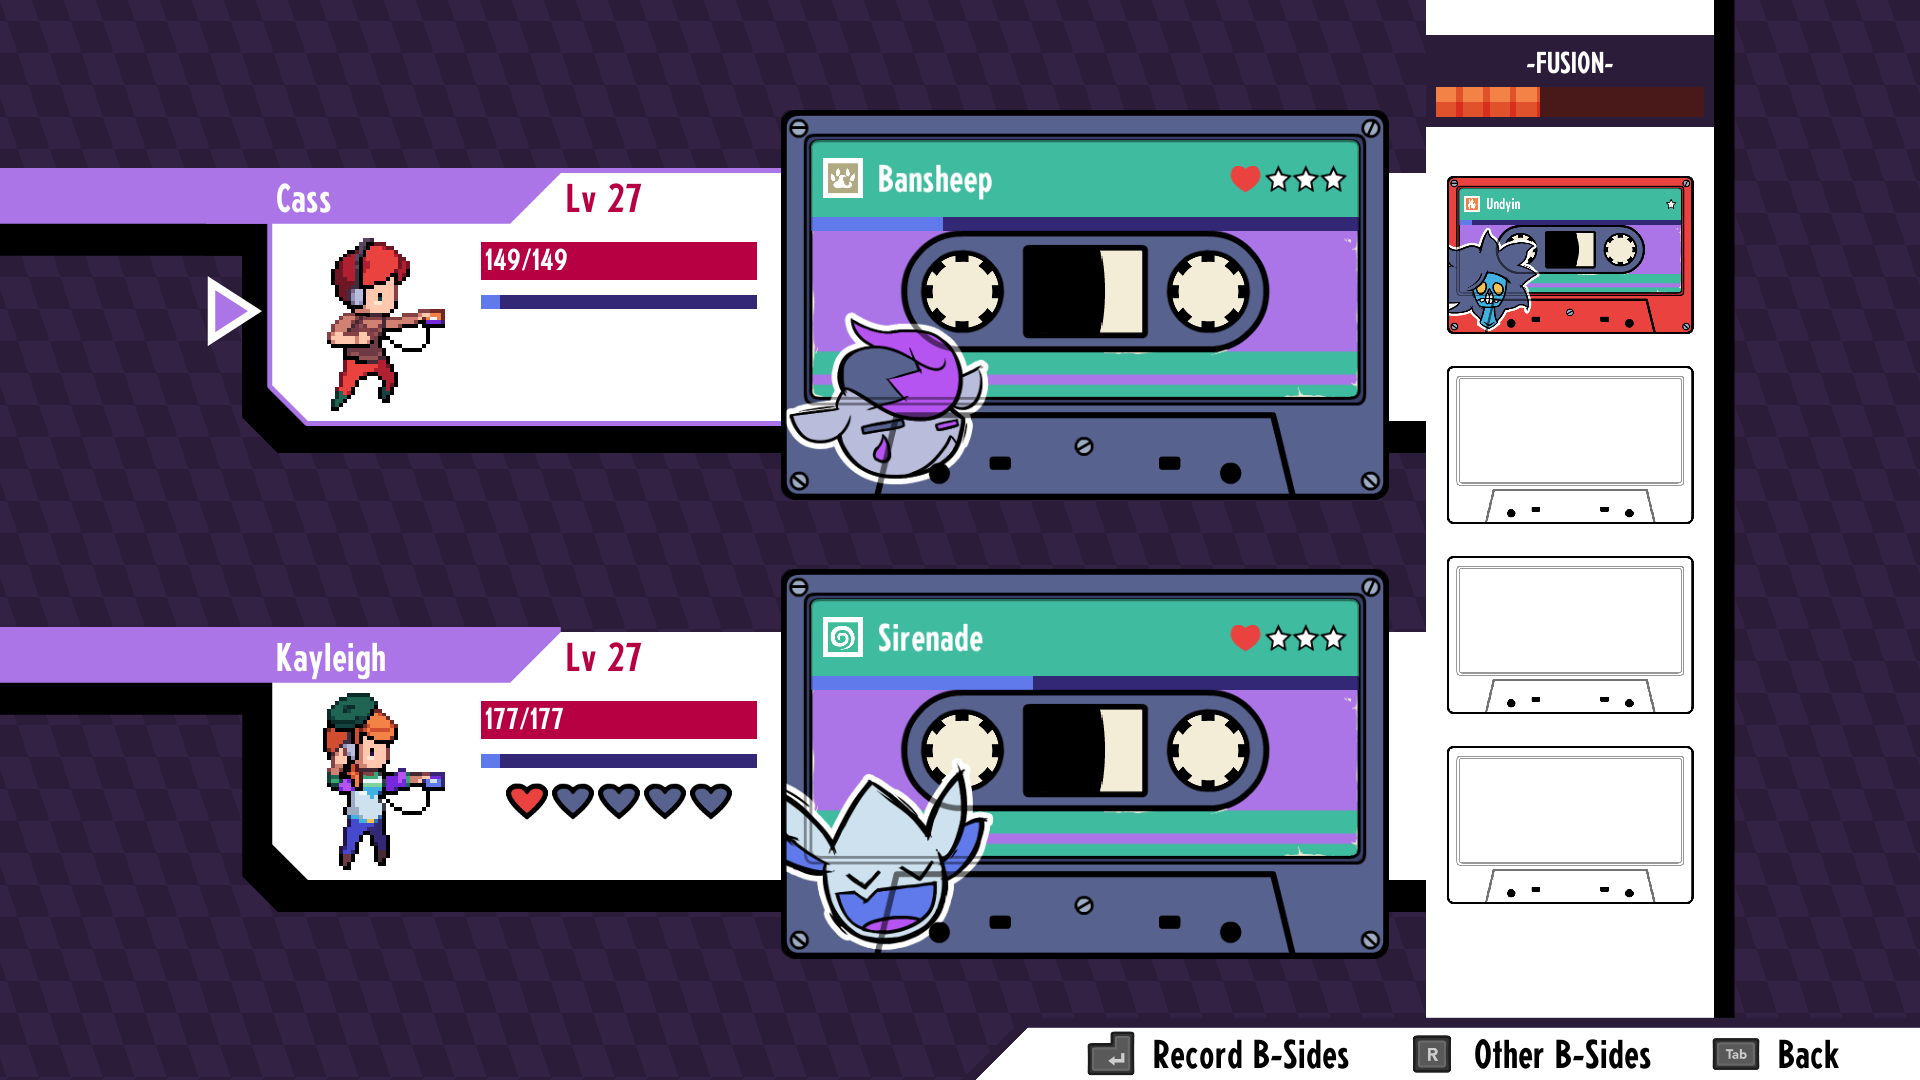
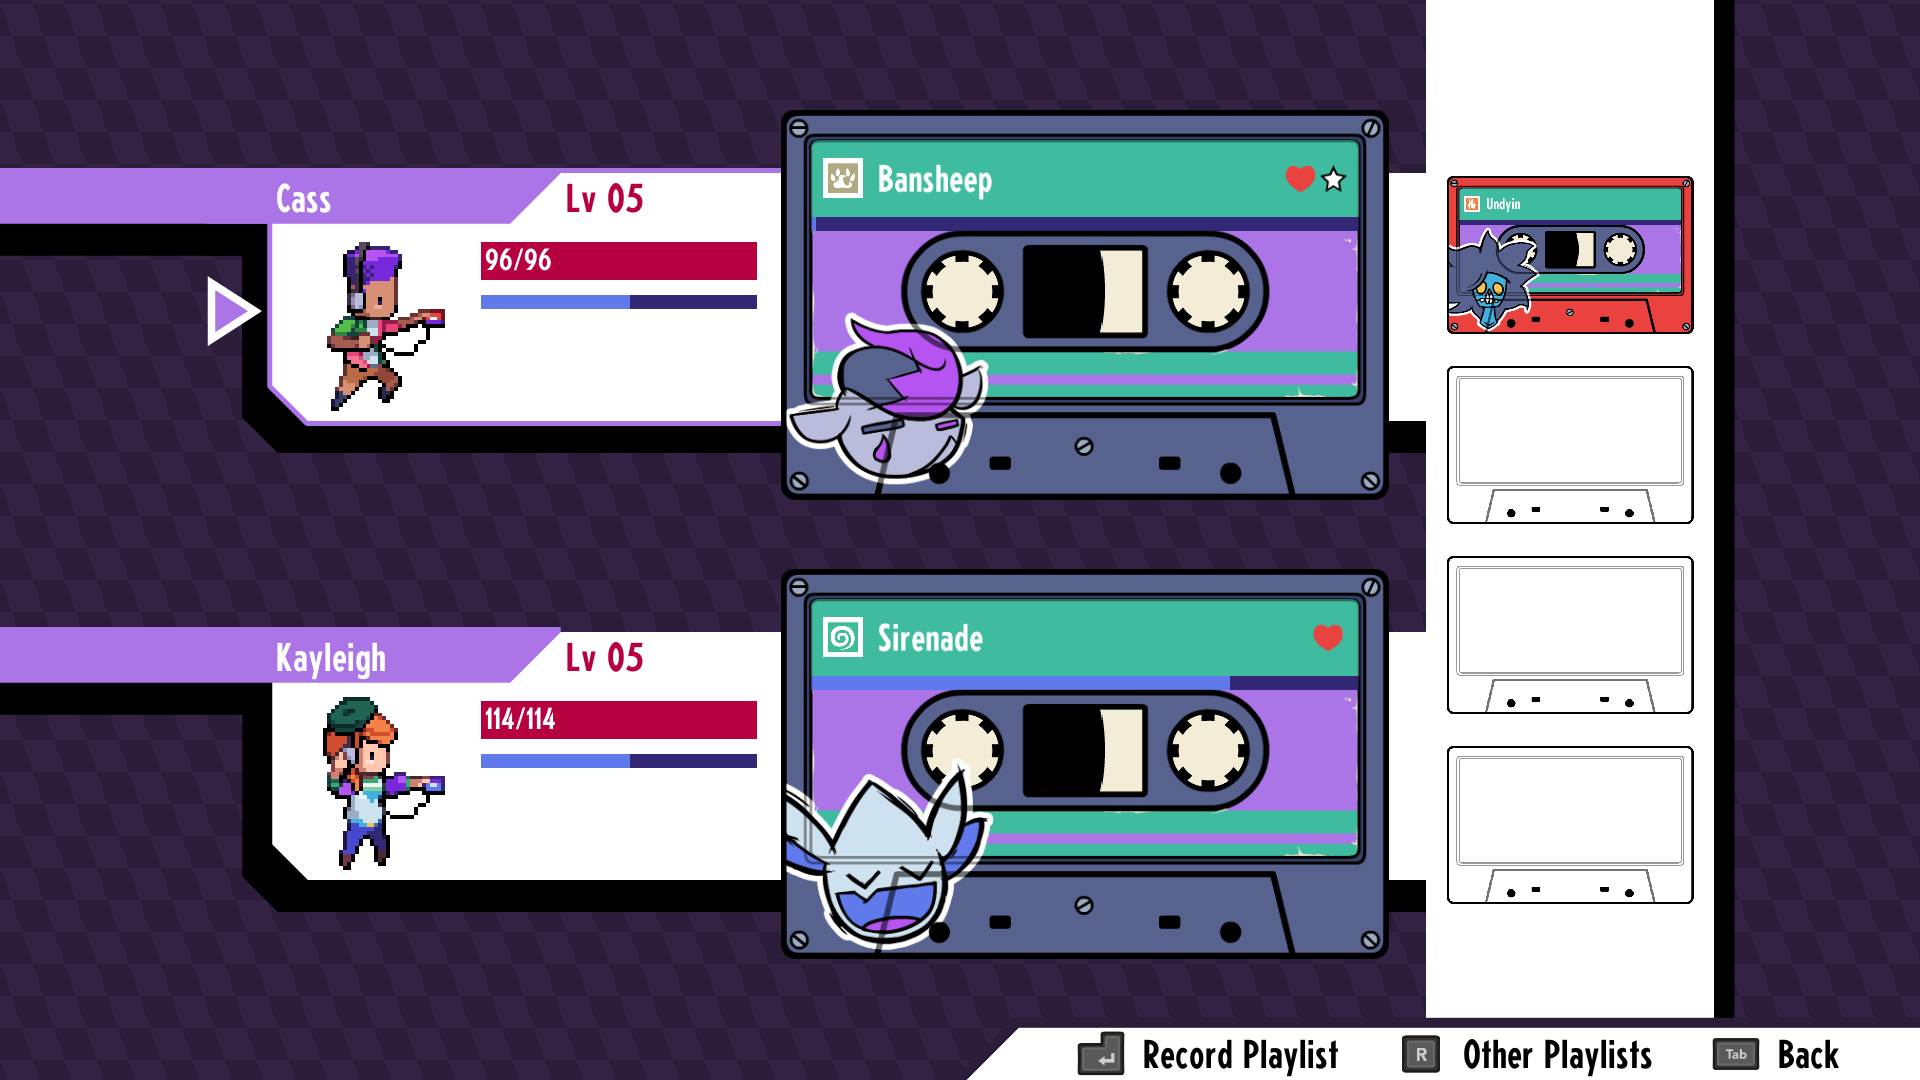
Version 1.0.1: rename 'mixtape sets' to 'playlists', and fix issue with validation of tapes that gain slot attributes on star upgrades being considered invalid

diff --git a/README.md b/README.md
@@ -8,38 +8,38 @@ Also, giving the rarity of certain tapes, more often than not that tape is used 
 B-Sides, as a mod to the game, tries to minimize the time taken to switch teams, reassign stickers to tapes, and having to find important tapes for a team formation on storage when you need them.
 
 ## Battle teams
-On this mod, battle teams are referred to simply as B-Sides. Trying to keep alive the theme of cassette tapes and music from the original game, this is based on the idea that, as cassette tapes in real life, the ones on the game have a- and b-sides to them. When you have any setup of tapes with stickers in hand, you can request to record them as a Mixtape set (which would be equivalent to a team), name that collection of tapes, and save it for later use. Whenever you feel like it, you could load a certain set of mixtapes as the b-side of the tapes currently on your party, and use them to battle NPCs, wild encounters, raids, bosses, and even friends. 
+On this mod, tapes from saved battle teams are referred to simply as B-Sides (or mixtapes, when referring to the combination tape + stickers). Trying to keep alive the theme of cassette tapes and music from the original game, this is based on the idea that, as cassette tapes in real life, the ones on the game have a- and b-sides to them. When you have any setup of tapes with stickers in hand, you can request to record them as a Playlist (which would be equivalent to a team), name that collection of tapes, and save it for later use. Whenever you feel like it, you could load a certain Playlist as the b-side of the tapes currently on your party, and use them to battle NPCs, wild encounters, raids, bosses, and even friends. 
 
 ![New buttons added to Party Menu to give access to the mod options](/.screenshots/party_menu.png)
 
-In order to access the mods options, two new buttons are present at the bottom of the party menu: the left one allows for saving the current party configuration of tapes as a mixtape set, and the middle one is used for switching between any saved mixtape sets and the current party.
+In order to access the mods options, two new buttons are present at the bottom of the party menu: the left one allows for saving the current party configuration of tapes as a B-Sides Playlist, and the middle one is used for switching between any saved Playlists and the current party.
 
 ![Party shown as an option for one of the teams to be loaded](/.screenshots/bt_selection_menu_party.png)
 
-While checking the list of B-Sides available, two main options can be seen: one for using your original party tapes, giving the option to unload any current mixtapes in use and go back to using the party, and another one for importing external teams. For teams to be available for importing, the respective exported file needs to be placed inside `user://battle_teams/sharing` folder. If multiple files are found when importing, the game will give the option to select from them individually, or importing them all at once. Imported files can be imported again, resulting on a copy of the mixtape set: in order to avoid having to select from a big list every time, any successfully imported files will be automatically moved into the `user://battle_teams/sharing/imported` folder. If any of these folders don't already exist, the mod will create them once loaded.
+While checking the list of B-Sides Playlists available, two main options can be seen: one for using your original party tapes, giving the option to unload any current playlist in use and go back to using the party, and another one for importing external playlists. For a playlist to be available for importing, the respective exported file needs to be placed inside `user://battle_teams/sharing` folder. If multiple files are found when importing, the game will give the option to select from them individually, or importing them all at once. Imported files can be imported again, resulting on a copy of that Playlist: in order to avoid having to select from a big list every time, any successfully imported files will be automatically moved into the `user://battle_teams/sharing/imported` folder. If any of these folders don't already exist, the mod will create them once loaded.
 
 ![Mixtape's set selection UI](/.screenshots/bt_selection_menu.png)
 
-When checking a mixtapes team on this menu, though, you notice a couple basic differences: first, the title of the screen went from a white "Party" text to the name of the current team being shown in yellow; second, two extra buttons appear at the bottom, one allowing to permanetly erase the mixtape set show at the screen, and another one for exporting it to a file; and third, tapes from a mixtape team will always have 5 stars to them, even if the original tapes from the team used to create them were not at 5 stars at the point of recording the B-sides. This last one is done because mixtapes will not gain EXP from battles, and any battles that grant EXP will apply them directly to the current party of tapes, not their B-Sides. As basic tape stats increase until they reach 5 stars, mixtapes will always be able to rely upon using their best possible stats.
+When checking a battle team on this menu, though, you notice a couple basic differences: first, the title of the screen went from a white "Party" text to the name of the current playlist being shown in yellow; second, two extra buttons appear at the bottom, one allowing to permanently erase the playlist show at the screen, and another one for exporting it to a file; and third, tapes from a B-Sides Playlist will always have 5 stars on them, even if the original tapes from the team used when creating it were not at 5 stars at the point of recording them as a playlist. This last one is done because mixtapes will not gain EXP from battles, and any battles that grant EXP will apply them directly to the current party of tapes, not their B-Sides. As basic tape stats increase until they reach 5 stars, mixtapes will always be able to rely upon using their best possible stats.
 
 > [!TIP]
-> As mixtapes are saved on a shared folder inside `user://` domain, they can be shared between savefiles on the same machine. Thus, you can create a mixtape set on the first savefile, and access it from a second savefile. Moreover, each savefile can have its individual mixtape set assigned to them, even though the list of teams is shared. Erasing a mixtape is safe even when different savefiles are using different teams as, when loading a savefile, if the latest mixtape loaded to that file is not available anymore, the party will default to unloading the team and going back to the A-side party tapes.
+> As B-Sides Playlists are saved on a shared folder inside `user://` domain, they are auto-shared between savefiles on the same machine. Thus, you can create a playlist on the first savefile, and access it from a second savefile. Moreover, each savefile can have its individual playlist assigned to them, even though the list of teams is shared. Erasing a playlist in any of them is safe even when different savefiles are using different teams as, when loading a savefile, if the latest playlist loaded to that file is not available anymore, the party will default to unloading the team and going back to the A-side party tapes.
 
 ![B-Sides loaded into Party Menu](/.screenshots/party_menu_loaded_bsides.png)
 
-To indicate a mixtapes' set is loaded, a couple of UI cues were included to the party menu: the name of the loaded team can be seen on the bottom left corner of the screen, the recording B-Sides button is now used for renaming the Mixtape set and saving any changes done to the current loaded team (although changes to Mixtape sets are autosaved whenever switching teams), and b-sides of tapes are yellow colored, with a "side: B" stamp on them. This change is useful to identify tapes from battle teams when accessing them from other menus, such as the inventory menu when using healing items. The tape jam icon, also included as a sticker on these tapes, indicate there are some limitations to what can be edited on them, as discussed on the next section.
+To indicate a B-Sides Playlist is loaded, a couple of UI cues were included to the party menu: the name of the loaded team can be seen on the bottom left corner of the screen, the recording B-Sides button is now used for renaming the Playlist and saving any changes done to the current loaded team (although changes to Mixtape sets are autosaved whenever switching teams), and b-sides of tapes are yellow colored, with a "side: B" stamp on them. This change is useful to identify tapes from battle teams when accessing them from other menus, such as the inventory menu when using healing items. The tape jam icon, also included as a sticker on these tapes, indicate there are some limitations to what can be edited on them, as discussed on the next section.
 
 > [!IMPORTANT]
-> Menus are context aware when using a Mixtape set. This means whenever a Mixtape set is loaded, inventory items that can interact with party tapes should react different depending on its purpose. E.g., from the Consumables tab, healing items will be applied to the currently loaded Mixtape-set tapes, while upgrapes will give you the option of selecting tapes from your A-sides, as B-side tapes won't ever need to gain stars.
+> Menus are context aware when using a B-Sides Playlist. This means whenever a playlist is loaded, inventory items that can interact with party tapes should react different depending on its purpose. E.g., from the Consumables tab, healing items will be applied to the currently loaded playlist's tapes, while upgrapes will give you the option of selecting tapes from your A-sides, as B-side tapes won't ever need to gain stars.
 
 ## Mixtapes limitations
-Mixtapes' set are not real tapes: they are a simplified version of tapes used for convinience. As such, they are not considered for completion of quests that require holding a tape (like some of Hoylake's side quests), or for registering new tapes into your bestiary. Furthermore, they have some limitations to them, and unsupported options should appear hidden or disabled on the UI whenever a Mixtape set is loaded. These include the ability to move a tape between the party and tape storage while on the Party Menu, and adding or peeling stickers from side-B tapes. You can still rename B-Sides separate from their original A-Side tapes, and mark them as favorites, although the favorite mark to B-Sides are just aesthetic, as these tapes should never leave your Party -- and the favorites tab on tape storage only serves the purpose of showing marked tapes that are not in the current Party. A shortcut for the tape's bestiary entry also only appears on the Tape Menu after you've battled against or recorded that monster species, being hidden if you've only encountered it while using a Mixtape set.
+Mixtapes' set are not real tapes: they are a simplified version of tapes used for convinience. As such, they are not considered for completion of quests that require holding a tape (like some of Hoylake's side quests), or for registering new tapes into your bestiary. Furthermore, they have some limitations to them, and unsupported options should appear hidden or disabled on the UI whenever a Playlist is loaded. These include the ability to move a tape between the party and tape storage while on the Party Menu, and adding or peeling stickers from B-side tapes. You can still rename Mixtapes separate from their original A-Side tapes, and mark them as favorites, although the favorite mark to B-Sides are just aesthetic, as these tapes should never leave your Party -- and the favorites tab on tape storage only serves the purpose of showing marked tapes that are not in the current Party. A shortcut for the tape's bestiary entry also only appears on the Tape Menu after you've battled against or recorded that monster species, being hidden if you've only encountered it while using a Mixtape set.
 
 > [!NOTE]
 > While having a mixtape set loaded, changes to the party's A-side tapes can only be done via the tape storage menu. Also, be aware that any newly added tapes to your team (when recording a new tape, for example) will default to go directly to the tape storage, even if the A-side party still has empty slots available. 
 
 > [!WARNING]
-> The inventory Stickers tab will be completely hidden while any Mixtape set is being used as you should not be able to add or peel stickers from B-side tapes, although it is still possible access them and add or peel stickers from your own tapes directly from the tape storage menu.
+> The inventory Stickers tab will be completely hidden while any Mixtape set is being used as you should not be able to add or peel stickers from B-side tapes, although it is still possible to access them and add or peel stickers from your own tapes directly from the tape storage menu.
 
 Moreover, tapes from mixtapes' set and their aplied stickers can have their order changed on the team, nicknames changed, and favorite status modified, but this is pretty much what can be done to edit a loaded team from the Party Menu. Currently, there are no plans to include any other features (as most of them, like moving tapes to storage, are purposely removed to avoid introducing duplication glitches to the game via this mod).
 
